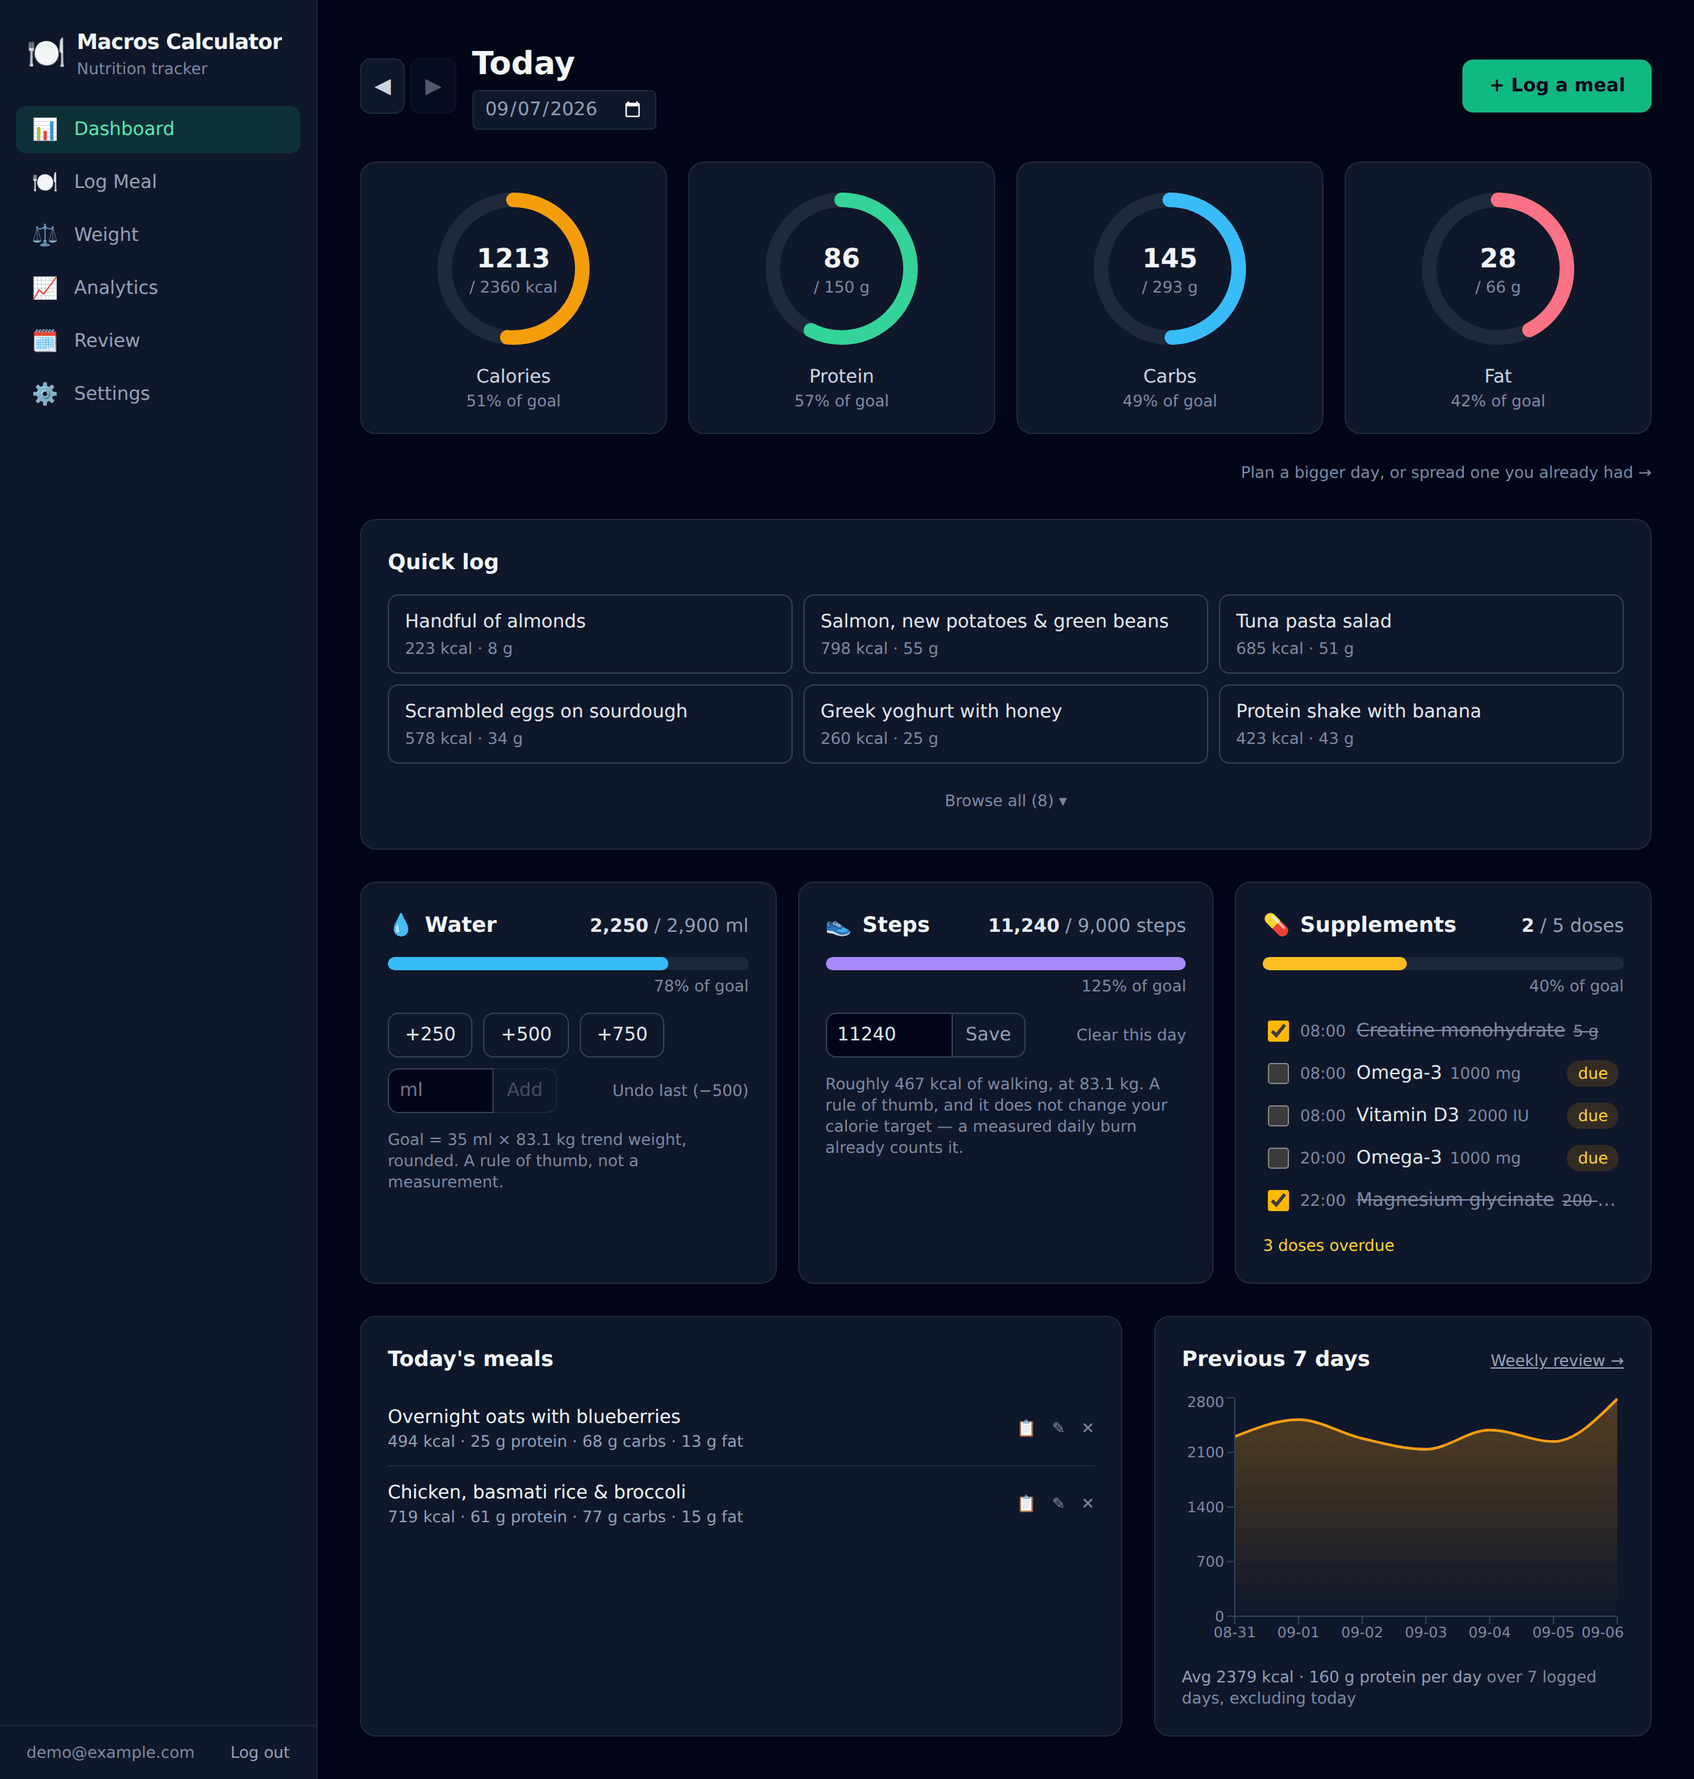
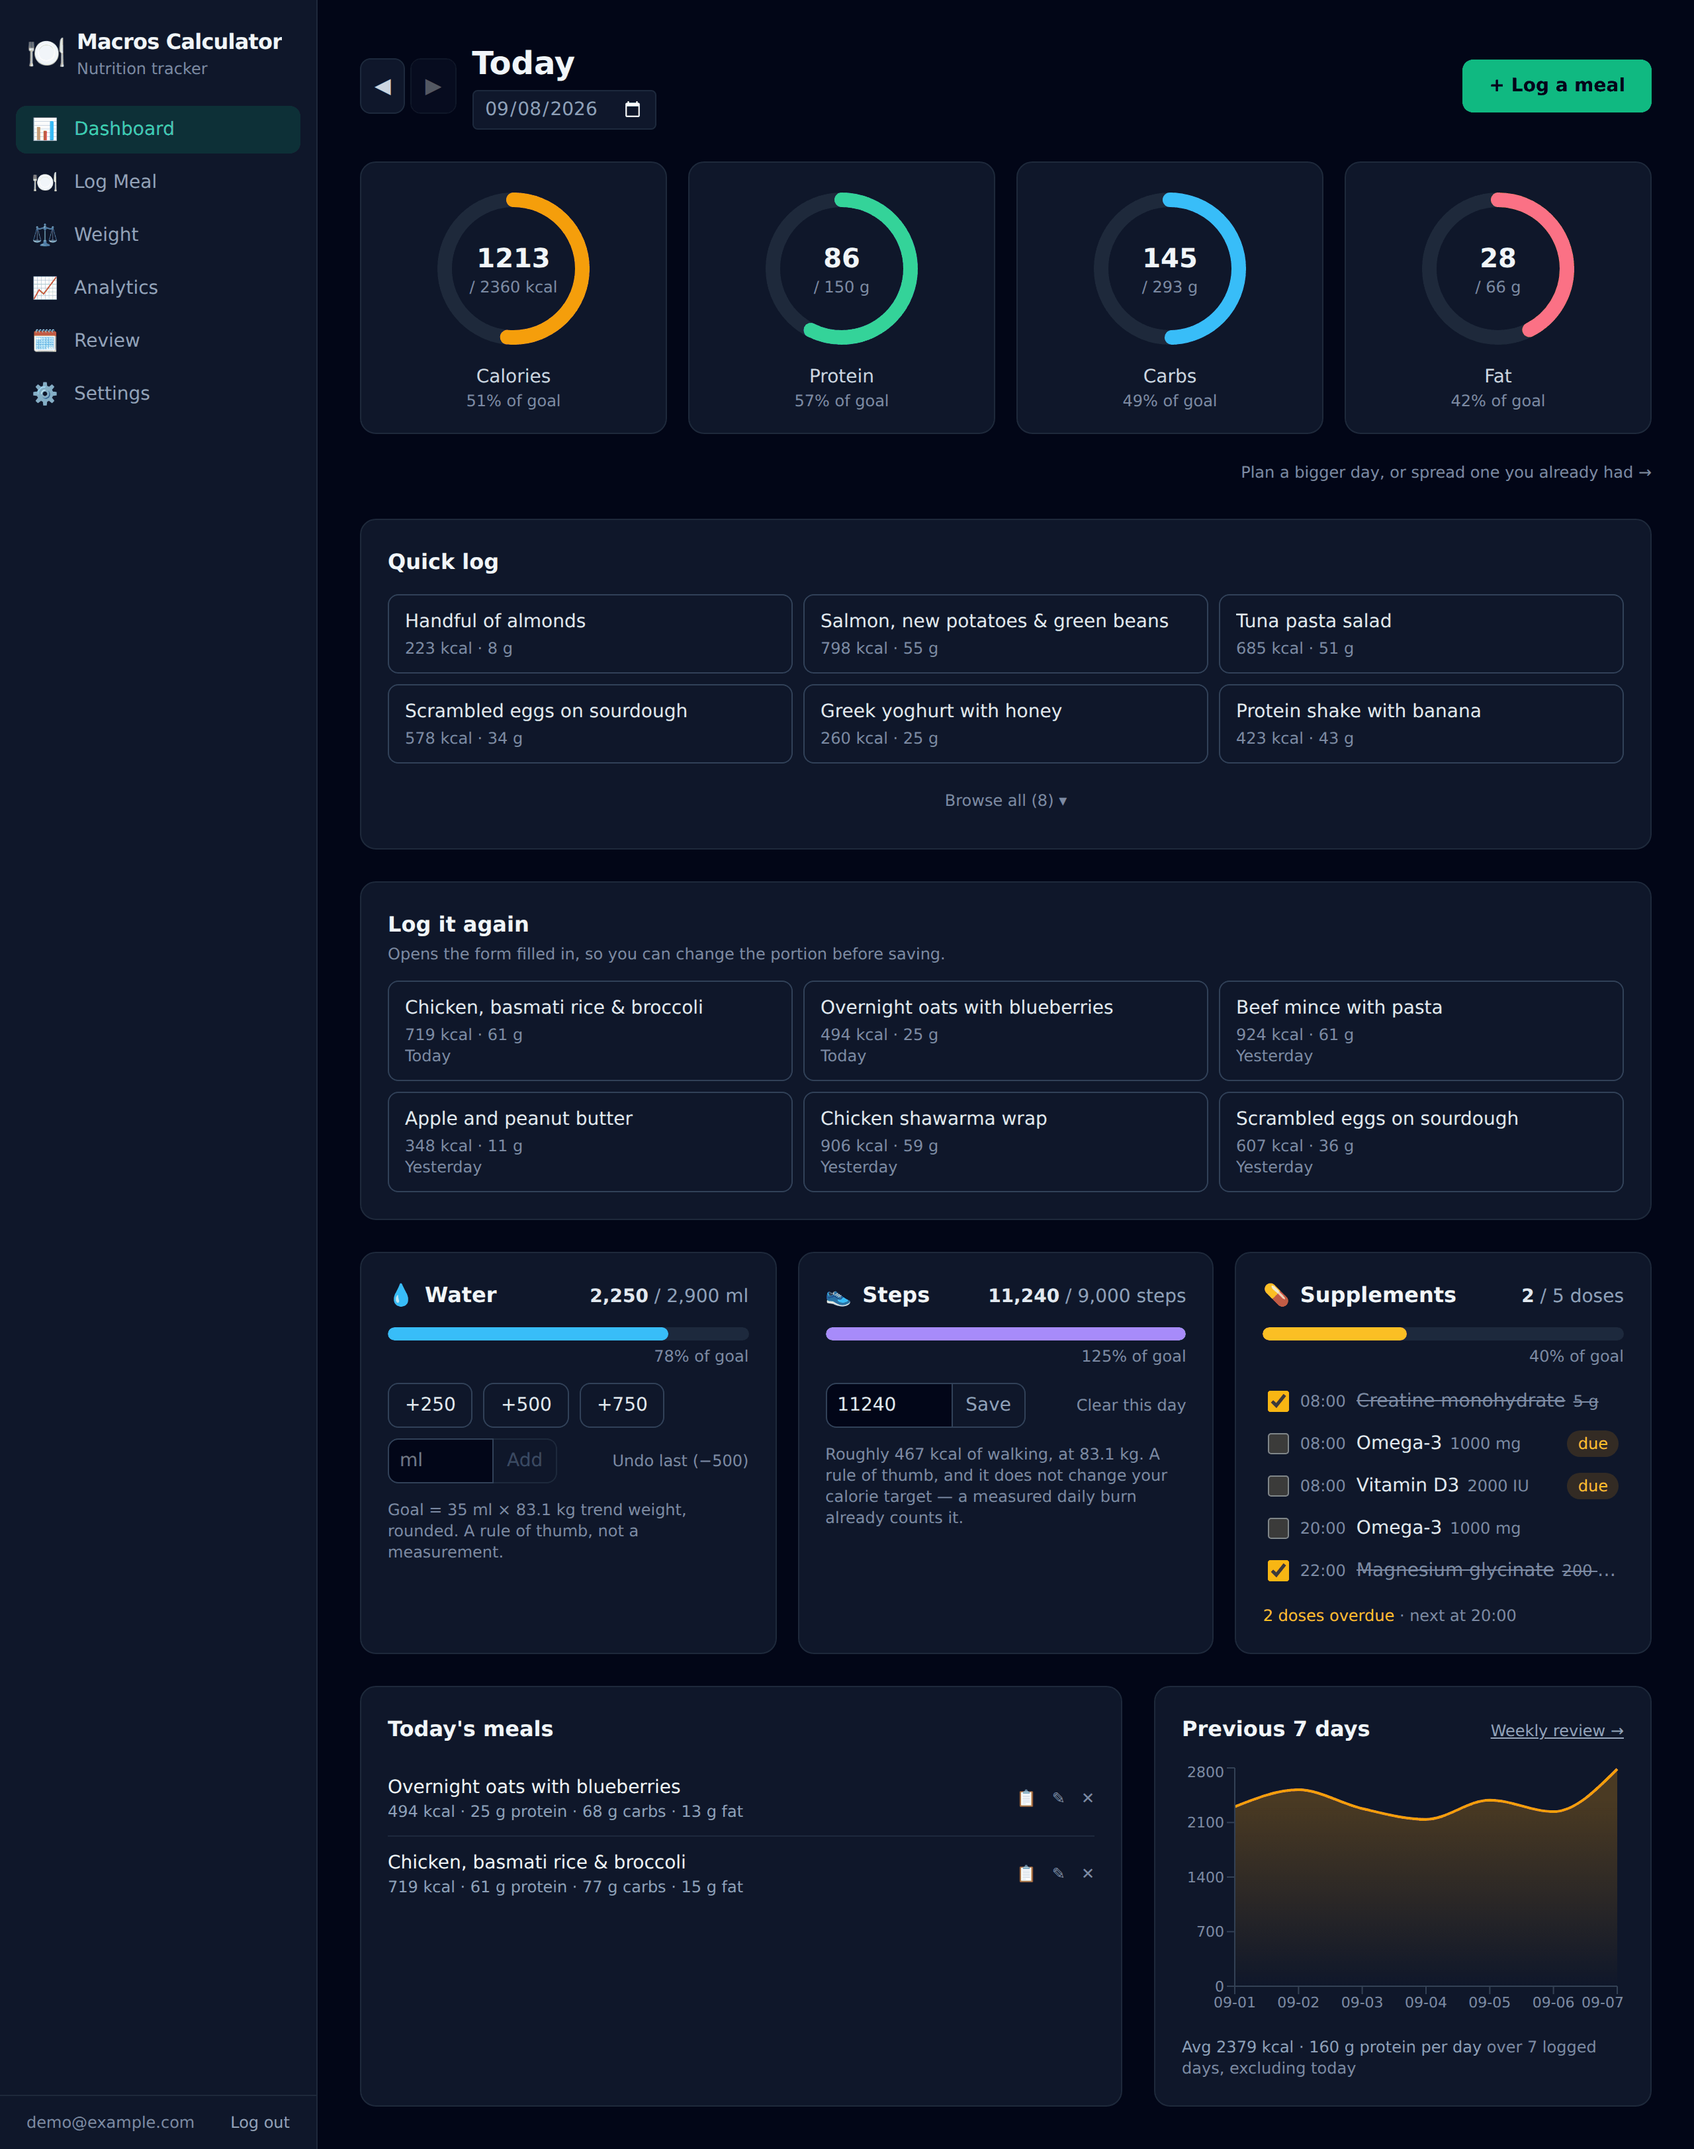
docs: cover logging a meal again
README feature list and API table, a release note, and the two dashboard
screenshots retaken -- with the caption above them, which had stopped listing
everything the image shows.

diff --git a/backend/app/announcements.py b/backend/app/announcements.py
@@ -29,6 +29,27 @@ STATUS_BANNER_ENV = "STATUS_BANNER"
 # pop-up becoming a dismiss-three-reload-repeat gauntlet.
 ANNOUNCEMENTS: list[Announcement] = [
     Announcement(
+        id="2026-09-08-log-it-again",
+        date="2026-09-08",
+        title="Log a meal you have eaten before, without typing it again",
+        body=(
+            "**Saved meals only help with the meals you thought to save.** The "
+            "dashboard now offers the ones you actually logged recently, right "
+            "under Quick log \u2014 so the thing you ate on Tuesday and never "
+            "got round to saving is one tap away too.\n\n"
+            "**It is one entry per meal name, not one per meal.** If you log "
+            "\u201cBreakfast\u201d every morning you get one Breakfast, "
+            "carrying the most recent version of it, with the day it came from "
+            "printed beside the numbers \u2014 because Monday's breakfast was "
+            "not Tuesday's and the app should say which one it is showing "
+            "you.\n\n"
+            "**Tapping one opens the log form filled in rather than logging it "
+            "outright.** The portion is still yours to change, the date is "
+            "whichever day you were looking at, and the meal you copied stays "
+            "exactly where it was."
+        ),
+    ),
+    Announcement(
         id="2026-09-08-library-tidying",
         date="2026-09-08",
         title="Your food library can now be compared and tidied",

diff --git a/README.md b/README.md
@@ -60,6 +60,7 @@ Log meals by typing an ingredient name — macros auto-fill from your personal *
 - **Every saved food is comparable, whatever it was saved against.** Macros are stored per the food's own serving size, which is what the packet says and useless for comparing two of them — 108 kcal per 90 g and 70 kcal per 50 g are the same food twice, and nothing about those two lines says so. Any row that is not already per 100 g now shows what it works out to, and a **Per 100 g** button rewrites it that way for good: it previews the figures first, and it **keeps the Open Food Facts badge**, because a rescale is the same claim in different units and corrects nothing
 - **It tells you when you have saved the same food twice.** The library fills itself up on its own — every Open Food Facts pick is cached, every ticked ingredient saved — so the same thing arrives under names nobody chose to make match. A pair is flagged only when the names overlap **and** the per-100 g calories and protein are close, because names alone would call "chicken breast" and "chicken thigh" duplicates. And it argues rather than acts: both rows are put side by side in the same units so you can see why, every delete is yours, and "not a duplicate" makes it stop asking
 - **Saved meals**: store a meal you eat often and re-log it in one tap from the dashboard
+- **Log it again**: the dashboard offers the meals you actually logged recently, so anything you have eaten before can be re-logged without retyping it. It is the counterpart to saved meals rather than a duplicate of them — a saved meal had to be stored in advance, while this needs no forethought at all, which is the case it exists for. The list is one entry per meal *name*, carrying the most recent version of it and the day that came from, so logging “Breakfast” every morning does not fill the card with six Breakfasts. Tapping one opens the log form filled in, so the portion is still yours to change before it is saved
 - **Share a meal by code**: turn a meal or a saved template into a short code, hand it to someone, and they get an **editable copy in their own account**. The code is a self-contained encoded payload — there is no shared row, no invite, nothing to revoke, and no account id inside it, so per-user isolation is untouched by the feature existing
 - Single- or multi-ingredient meals with live-updating totals as you type
 
@@ -117,7 +118,7 @@ Every screen at both widths. Each image is one long capture of the **entire page
 
 ### Dashboard
 
-Rings against your goals, one-tap quick log, the three daily trackers, today's meals, and the seven-day trend.
+Rings against your goals, one-tap quick log, the meals you logged recently ready to log again, the three daily trackers, today's meals, and the seven-day trend.
 
 <table>
 <tr><th align="center">Desktop</th><th align="center">Phone</th></tr>
@@ -615,6 +616,7 @@ only on the caller's data, except these public ones: `/api/health`,
 | Method | Endpoint | Description |
 |---|---|---|
 | GET/POST | `/api/meals` | List (optionally by `?date=`) / create meals |
+| GET | `/api/meals/recent` | The most recent meal under each distinct name, for re-logging |
 | PUT/DELETE | `/api/meals/{id}` | Edit or delete a meal |
 | GET/POST | `/api/meal-templates` | List saved meals / save one (upsert by name) |
 | DELETE | `/api/meal-templates/{id}` | Delete a saved meal template |
